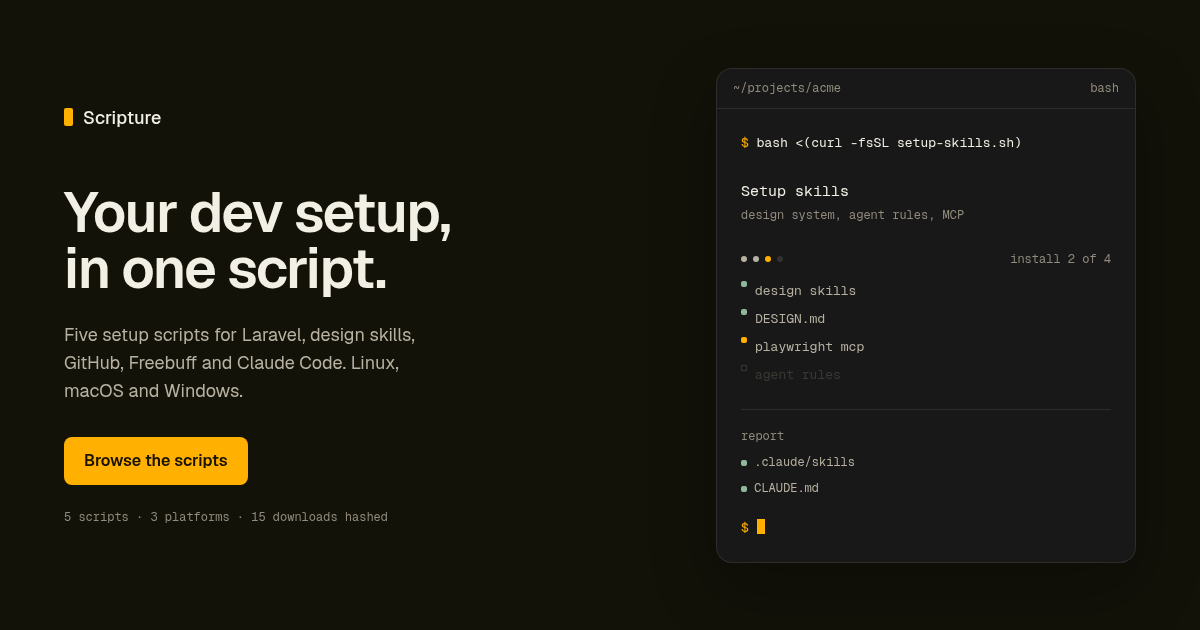
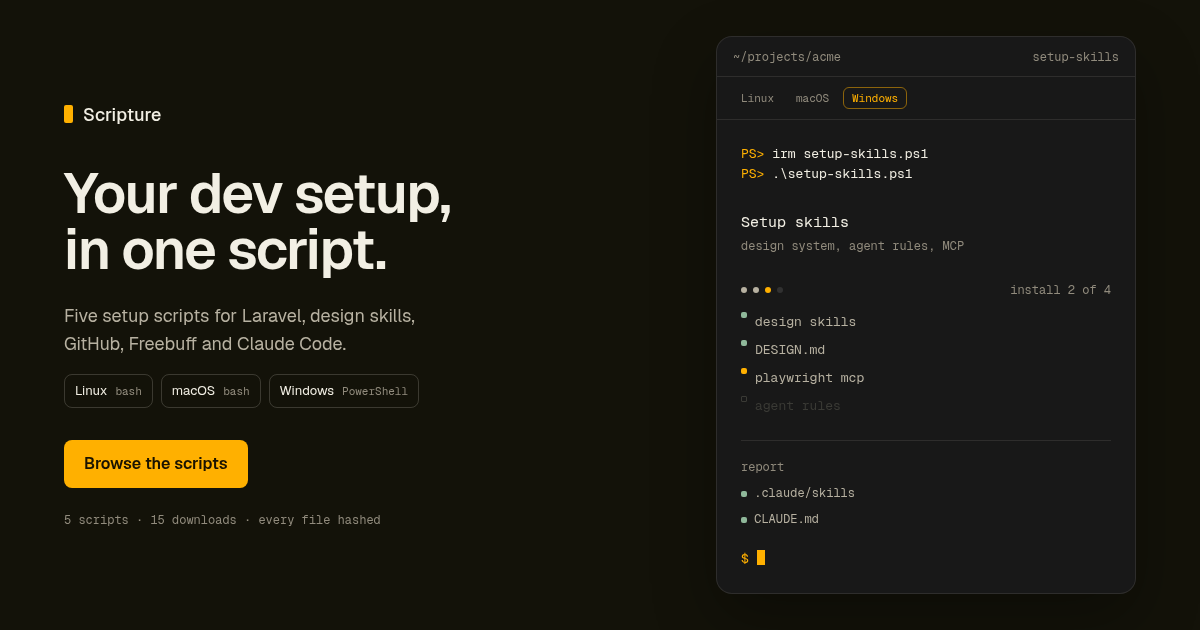
updated og

diff --git a/site/scripts/og.html b/site/scripts/og.html
@@ -24,8 +24,15 @@
   .brand { display: flex; align-items: center; gap: 10px; font-size: 18px; font-weight: 500; }
   .mark { width: 9px; height: 18px; border-radius: 2px; background: #ffb000; }
   .dim { color: #918b7d; }
-  h1 { margin-top: 56px; font-size: 56px; line-height: 56px; letter-spacing: -0.03em; font-weight: 600; }
-  p { max-width: 32ch; margin-top: 24px; font-size: 18px; line-height: 28px; color: #b7b1a1; }
+  h1 { margin-top: 40px; font-size: 56px; line-height: 56px; letter-spacing: -0.03em; font-weight: 600; }
+  p { max-width: 34ch; margin-top: 24px; font-size: 18px; line-height: 28px; color: #b7b1a1; }
+  .platforms { display: flex; gap: 8px; margin-top: 16px; }
+  .platform {
+    display: inline-flex; align-items: baseline; gap: 8px;
+    padding: 7px 10px; border: 1px solid rgba(242,239,228,.18); border-radius: 8px;
+    font-size: 13px; line-height: 18px; color: #f2efe4;
+  }
+  .platform span { font-family: "Geist Mono", monospace; font-size: 11px; color: #918b7d; }
   .cta {
     display: inline-flex; align-items: center; gap: 8px; margin-top: 32px;
     height: 48px; padding: 0 20px; border-radius: 8px;
@@ -44,6 +51,13 @@
     height: 40px; padding: 0 16px; border-bottom: 1px solid rgba(242,239,228,.10);
     font-family: "Geist Mono", monospace; font-size: 12px; color: #918b7d;
   }
+  .tabs {
+    display: flex; gap: 6px; align-items: center; padding: 10px 16px;
+    border-bottom: 1px solid rgba(242,239,228,.10);
+    font-family: "Geist Mono", monospace; font-size: 11px; color: #918b7d;
+  }
+  .tabs span { padding: 3px 8px; }
+  .tabs span.is-on { border: 1px solid rgba(255,176,0,.5); border-radius: 6px; color: #ffb000; }
   .body { padding: 24px; font-family: "Geist Mono", monospace; font-size: 13px; line-height: 20px; color: #b7b1a1; }
   .cmd { color: #f2efe4; white-space: nowrap; }
   .prompt { color: #ffb000; }
@@ -69,15 +83,22 @@
   <div>
     <div class="brand"><span class="mark"></span>Scripture</div>
     <h1>Your dev setup,<br>in one script.</h1>
-    <p>Five setup scripts for Laravel, design skills, GitHub, Freebuff and Claude Code. Linux, macOS and Windows.</p>
+    <p>Five setup scripts for Laravel, design skills, GitHub, Freebuff and Claude Code.</p>
+    <div class="platforms">
+      <div class="platform">Linux <span>bash</span></div>
+      <div class="platform">macOS <span>bash</span></div>
+      <div class="platform">Windows <span>PowerShell</span></div>
+    </div>
     <div class="cta">Browse the scripts</div>
-    <div class="meta">5 scripts · 3 platforms · 15 downloads hashed</div>
+    <div class="meta">5 scripts · 15 downloads · every file hashed</div>
   </div>
 
   <div class="term">
-    <div class="bar"><span>~/projects/acme</span><span>bash</span></div>
+    <div class="bar"><span>~/projects/acme</span><span>setup-skills</span></div>
+    <div class="tabs"><span>Linux</span><span>macOS</span><span class="is-on">Windows</span></div>
     <div class="body">
-      <div class="cmd"><span class="prompt">$</span> bash &lt;(curl -fsSL setup-skills.sh)</div>
+      <div class="cmd"><span class="prompt">PS&gt;</span> irm setup-skills.ps1</div>
+      <div class="cmd"><span class="prompt">PS&gt;</span> .\setup-skills.ps1</div>
       <div class="title">Setup skills</div>
       <div class="sub">design system, agent rules, MCP</div>
       <div class="progress"><span class="dots"><i class="done"></i><i class="done"></i><i class="now"></i><i></i></span><span>install 2 of 4</span></div>

diff --git a/site/public/index.html b/site/public/index.html
@@ -8,18 +8,18 @@
 <meta name="theme-color" content="#131209">
 <link rel="icon" href="favicon.svg" type="image/svg+xml">
 <meta property="og:type" content="website">
-<meta property="og:title" content="Scripture — your dev setup, in one script">
+<meta property="og:title" content="Scripture — setup scripts for Linux, macOS and Windows">
 <meta property="og:description" content="Five setup scripts for Laravel, design skills, GitHub, Freebuff and Claude Code, in Linux, macOS and Windows versions. Every download hashed.">
 <meta property="og:image" content="og.png">
 <meta name="twitter:card" content="summary_large_image">
-<meta name="twitter:title" content="Scripture — your dev setup, in one script">
+<meta name="twitter:title" content="Scripture — setup scripts for Linux, macOS and Windows">
 <meta name="twitter:description" content="Five setup scripts for Linux, macOS and Windows: Laravel, design skills, GitHub, Freebuff and Claude Code.">
 <meta name="twitter:image" content="og.png">
 <link rel="preconnect" href="https://fonts.googleapis.com">
 <link rel="preconnect" href="https://fonts.gstatic.com" crossorigin>
 <link href="https://fonts.googleapis.com/css2?family=Geist:wght@400;500;600&family=Geist+Mono:wght@400;500&display=swap" rel="stylesheet">
 <link rel="stylesheet" href="styles.css">
-<noscript><style>[data-copy], .filters, .filter-count { display: none; }</style></noscript>
+<noscript><style>[data-copy], .filters, .filter-count, .os-switch { display: none; }</style></noscript>
 </head>
 <body data-downloads="downloads/">
 <a class="skip" href="#main">Skip to content</a>
@@ -80,7 +80,7 @@
           <a class="btn btn--primary" href="#scripts">Browse the scripts<svg class="i" aria-hidden="true"><use href="#i-arrow"/></svg></a>
           <a class="link-quiet" href="#safety">Read the safety notes</a>
         </div>
-        <p class="hero__proof" data-enter style="--d:3">5 scripts<span aria-hidden="true"> · </span>3 platforms<span aria-hidden="true"> · </span><span data-total-lines>7,416</span> lines<span aria-hidden="true"> · </span>every download hashed</p>
+        <p class="hero__proof" data-enter style="--d:3">5 scripts<span aria-hidden="true"> · </span>3 platforms<span aria-hidden="true"> · </span><span data-total-lines>7,417</span> lines<span aria-hidden="true"> · </span>every download hashed</p>
       </div>
 
       <div class="hero__art" data-enter style="--d:2">

diff --git a/site/public/styles.css b/site/public/styles.css
@@ -1374,12 +1374,13 @@ summary {
 
 .script__actions {
   display: flex;
-  flex-direction: column;
+  flex-direction: row;
+  flex-wrap: wrap;
   gap: 8px;
 }
 
 .script__actions .btn {
-  width: 100%;
+  width: auto;
 }
 
 /* ---------- per-OS switch and variants ---------- */
@@ -1965,7 +1966,8 @@ kbd {
   }
 
   .script__actions {
-    flex-direction: column;
+    flex-direction: row;
+    flex-wrap: wrap;
   }
 
   .script__actions .btn {

diff --git a/README.md b/README.md
@@ -184,9 +184,9 @@ not part of the build.
 
 ## Notes
 
-- The Linux scripts are the originals and have been exercised on that platform. The macOS
-  and Windows ports mirror their steps with Homebrew and winget; their syntax is checked
-  in this repository, but CI does not execute installers on those systems.
+- The Linux scripts are the originals in this repository. The macOS and Windows ports
+  mirror their steps with Homebrew and winget; all fifteen files are syntax checked here,
+  but CI does not execute installers on any platform.
 - Several scripts change system packages, databases or shell profiles. Read the source
   before you run it.
 - External services and models (Ollama, Gemini, Claude Code, GitHub, Homebrew, winget) are
